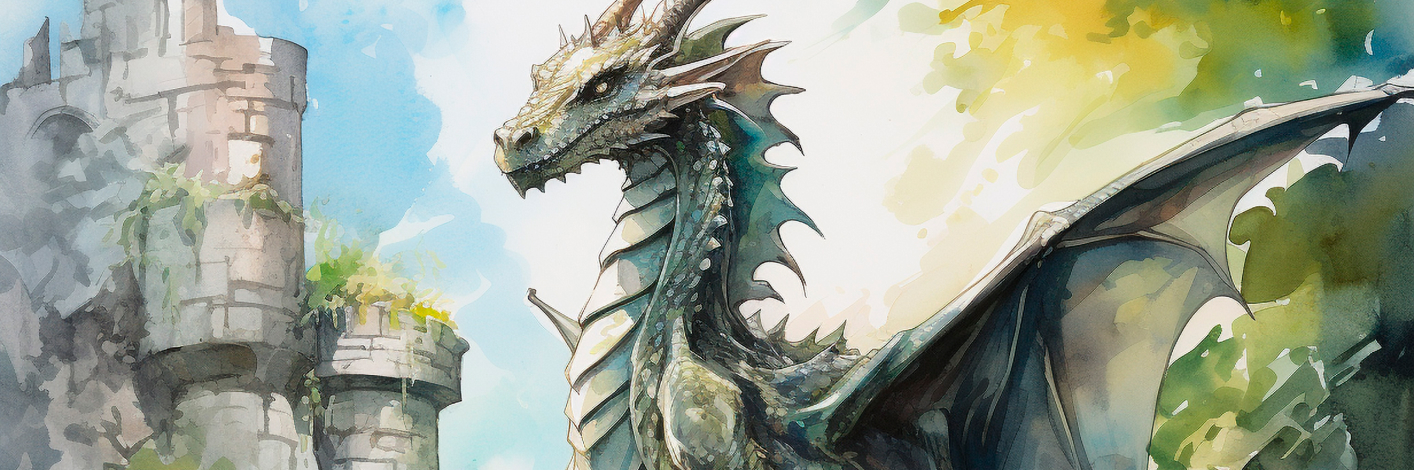
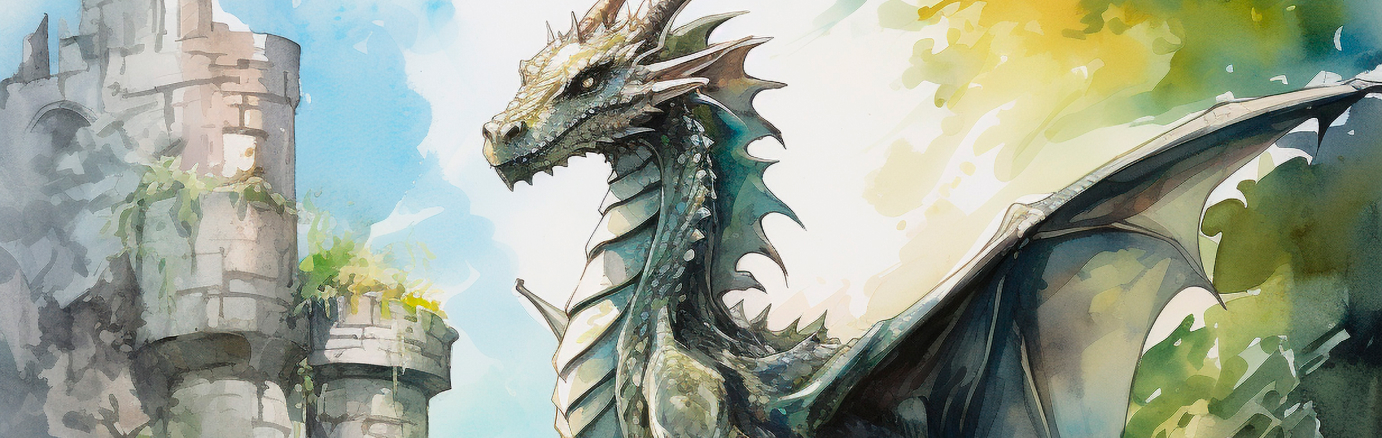
refactor source code

diff --git a/utils/actions.ts b/utils/actions.ts
@@ -3,8 +3,8 @@
 import OpenAI from "openai";
 import { TaleProps } from "@/types/TaleProps";
 
-export async function handleSubmit(prevState: TaleProps, formData: FormData) {
-	const rawFormData = {
+export async function handleSubmit(prevState: TaleProps | null, formData: FormData) {
+	const formDataObject = {
 		Name: formData.get("Name") as string,
 		Geschlecht: formData.get("Geschlecht") as string,
 		Alter: formData.get("Alter") as string,
@@ -12,13 +12,12 @@ export async function handleSubmit(prevState: TaleProps, formData: FormData) {
 		Thema: formData.get("Thema") as string,
 	};
 
-	// const data = await fetch(`https://jsonplaceholder.typicode.com/todos/${rawFormData.Name}`);
-	// const response = await data.json();
-
-	// Add a fake delay to make waiting noticeable.
+	// Add a fake delay to make waiting noticeable
 	await new Promise((resolve) => {
 		setTimeout(resolve, 2000);
 	});
+
+	if (isNaN(Number(formDataObject.Alter))) return prevState;
 
 	// const openai = new OpenAI();
 	// const completion = await openai.chat.completions.create({
@@ -27,7 +26,7 @@ export async function handleSubmit(prevState: TaleProps, formData: FormData) {
 	// 		{ role: "system", content: "Du bist ein erfahrener Kinder- und Jugendlichen Psychotherapeut." },
 	// 		{
 	// 			role: "user",
-	// 			content: `Ich möchte, dass du mir dabei hilfst eine fiktive und personalisierte Geschichte zu erfinden, die meinen Patienten dabei hilft ihre Symptome besser zu verstehen. Folgende Daten sollen in die Geschichte einfließen und sie formen: Name: ${rawFormData.Name}, Alter: ${rawFormData.Alter}, Geschlecht: ${rawFormData.Geschlecht}, Symptome: ${rawFormData.Symptome}, Ziel der Geschichte: Exploration durch Identifikation mit der Hauptfigur, Thema der Geschichte: ${rawFormData.Thema}, Länge der Geschichte: 2 Minuten Lesedauer. Gib mir als Antwort nur die Geschichte als JSON Objekt ohne Umbrüche und Markdown in folgendem Format zurück: theme: “Thema der Geschichte”, title: “Titel der Geschichte”, story: [“Erster Absatz”, “Zweiter Absatz”, ...]`,
+	// 			content: `Ich möchte, dass du mir dabei hilfst eine fiktive und personalisierte Geschichte zu erfinden, die meinen Patienten dabei hilft ihre Symptome besser zu verstehen. Folgende Daten sollen in die Geschichte einfließen und sie formen: Name: ${formDataObject.Name}, Alter: ${formDataObject.Alter}, Geschlecht: ${formDataObject.Geschlecht}, Symptome: ${formDataObject.Symptome}, Ziel der Geschichte: Exploration durch Identifikation mit der Hauptfigur, Thema der Geschichte: ${formDataObject.Thema}, Länge der Geschichte: 2 Minuten Lesedauer. Gib mir als Antwort nur die Geschichte als JSON Objekt ohne Umbrüche und Markdown in folgendem Format zurück: theme: “Thema der Geschichte”, title: “Titel der Geschichte”, story: [“Erster Absatz”, “Zweiter Absatz”, ...]`,
 	// 		},
 	// 	],
 	// });

diff --git a/components/layout/Form.tsx b/components/layout/Form.tsx
@@ -1,8 +1,6 @@
-"use client";
-
-import { useEffect, useState } from "react";
 import styled from "styled-components";
 import Input from "@/components/ui/Input";
+import { useEffect, useState } from "react";
 import Select from "@/components/ui/Select";
 import MultiSelect from "@/components/ui/MultiSelect";
 import SubmitButton from "@/components/ui/SubmitButton";
@@ -11,8 +9,11 @@ import { genders, symptoms, themes } from "@/data/data";
 export default function Form({ onSubmit, isPending }: { onSubmit: (payload: FormData) => void; isPending: boolean }) {
 	const [selectedSymptoms, setSelectedSymptoms] = useState<string[]>([]);
 
+	// Reset state after form submission
 	useEffect(() => {
-		if (!isPending) setSelectedSymptoms([]);
+		if (!isPending) {
+			setSelectedSymptoms([]);
+		}
 	}, [isPending]);
 
 	function handleChange(event: React.ChangeEvent<HTMLSelectElement>) {
@@ -26,7 +27,7 @@ export default function Form({ onSubmit, isPending }: { onSubmit: (payload: Form
 
 	return (
 		<StyledAside>
-			<StyledWrapper>
+			<StyledStickyWrapper>
 				<StyledHeadline>Talea</StyledHeadline>
 				<StyledParagraph>Hilf deinen Patienten durch eine personalisierte Geschichte dabei ihre ADHS Symptomatik besser zu verstehen und zu lernen damit umzugehen.</StyledParagraph>
 				<StyledForm action={onSubmit}>
@@ -61,7 +62,7 @@ export default function Form({ onSubmit, isPending }: { onSubmit: (payload: Form
 					</Select>
 					<SubmitButton label="Geschichte erstellen" />
 				</StyledForm>
-			</StyledWrapper>
+			</StyledStickyWrapper>
 		</StyledAside>
 	);
 }
@@ -69,7 +70,7 @@ export default function Form({ onSubmit, isPending }: { onSubmit: (payload: Form
 const StyledAside = styled.aside`
 	padding: var(--spacing-48) 0;
 `;
-const StyledWrapper = styled.div`
+const StyledStickyWrapper = styled.div`
 	display: flex;
 	position: sticky;
 	gap: var(--spacing-24);

diff --git a/components/layout/Tale.tsx b/components/layout/Tale.tsx
@@ -1,5 +1,3 @@
-"use client";
-
 import Image from "next/image";
 import styled from "styled-components";
 import { TaleProps } from "@/types/TaleProps";
@@ -10,10 +8,10 @@ function setCover(theme: string) {
 	return "fairy";
 }
 
-export default function Tale({ theme, title, story, isPending = false }: TaleProps) {
+export default function Tale({ theme, title, story, isPending = false }: TaleProps & { isPending?: boolean }) {
 	return (
 		<StyledArticle $isPending={isPending}>
-			<StyledImage src={`/images/${setCover(theme)}.jpg`} width={707} height={235} alt="Childish watercolor of a dragon and a child in the forest talking to each other" priority />
+			<StyledImage src={`/images/${setCover(theme)}.jpg`} width={691} height={219} alt={`Kindliches Aquarell mit dem Thema: ${theme}`} priority />
 			<StyledCaption>{theme}</StyledCaption>
 			<StyledHeadline>{title}</StyledHeadline>
 			<StyledWrapper>
@@ -33,9 +31,8 @@ const StyledArticle = styled.article<{ $isPending: boolean }>`
 	opacity: ${(props) => (props.$isPending ? "0.5" : "1.0")};
 `;
 const StyledImage = styled(Image)`
-	border-radius: var(--spacing-16);
-	margin-bottom: var(--spacing-48);
-	border: var(--spacing-8) solid var(--color-gray-0);
+	border-radius: var(--spacing-8);
+	margin: var(--spacing-8) var(--spacing-8) var(--spacing-48);
 `;
 const StyledCaption = styled.p`
 	width: 518px;
@@ -49,7 +46,6 @@ const StyledHeadline = styled.h2`
 	width: 518px;
 	text-align: center;
 	margin-inline: auto;
-	color: var(--color-gray-100);
 	font: var(--font-serif-bold-24);
 	margin-bottom: var(--spacing-48);
 `;
@@ -62,6 +58,5 @@ const StyledWrapper = styled.div`
 	margin-bottom: var(--spacing-96);
 `;
 const StyledParagraph = styled.p`
-	color: var(--color-gray-100);
 	font: var(--font-serif-regular-16);
 `;

diff --git a/components/ui/MultiSelect.tsx b/components/ui/MultiSelect.tsx
@@ -1,5 +1,3 @@
-"use client";
-
 import styled from "styled-components";
 import Pill from "@/components/ui/Pill";
 
@@ -7,7 +5,7 @@ interface MultiSelectProps {
 	label: string;
 	selectedSymptoms: string[];
 	onChange: (event: React.ChangeEvent<HTMLSelectElement>) => void;
-	onClick: (symptom: string) => void;
+	onClick: (payload: string) => void;
 	children: React.ReactNode;
 }
 
@@ -40,8 +38,6 @@ const StyledLabel = styled.label`
 const StyledSelect = styled.select`
 	display: flex;
 	align-items: center;
-	white-space: nowrap;
-	text-overflow: ellipsis;
 	color: var(--color-gray-60);
 	border-radius: var(--spacing-8);
 	font: var(--font-sans-regular-14);
@@ -54,5 +50,5 @@ const StyledRow = styled.div`
 	display: flex;
 	flex-wrap: wrap;
 	gap: var(--spacing-8);
-	padding-top: var(--spacing-8);
+	margin-top: var(--spacing-8);
 `;

diff --git a/components/page/App.tsx b/components/page/App.tsx
@@ -1,19 +1,19 @@
 "use client";
 
-import { tale } from "@/data/data";
-import { useActionState } from "react";
 import styled from "styled-components";
+import { useActionState } from "react";
 import Form from "@/components/layout/Form";
 import Tale from "@/components/layout/Tale";
 import { handleSubmit } from "@/utils/actions";
+import { tale as initialTale } from "@/data/data";
 
 export default function App() {
-	const [taleState, formAction, isPending] = useActionState(handleSubmit, tale);
+	const [taleState, formAction, isPending] = useActionState(handleSubmit, null);
 
 	return (
 		<StyledMain>
 			<Form onSubmit={formAction} isPending={isPending} />
-			<Tale {...taleState} isPending={isPending} />
+			<Tale {...(taleState || initialTale)} isPending={isPending} />
 		</StyledMain>
 	);
 }

diff --git a/components/ui/SubmitButton.tsx b/components/ui/SubmitButton.tsx
@@ -7,14 +7,15 @@ export default function SubmitButton({ label }: { label: string }) {
 
 	if (pending)
 		return (
-			<StyledButton type="submit" aria-label="Laden" disabled={true}>
+			<StyledButton type="submit" aria-label="Laden" disabled>
 				<StyledLoader></StyledLoader>
 			</StyledButton>
 		);
 
 	return (
 		<StyledButton type="submit">
-			<Image src="/images/ai.svg" width={18} height={21} alt="" /> {label}
+			<Image src="/images/ai.svg" width={18} height={21} alt="" />
+			{label}
 		</StyledButton>
 	);
 }
@@ -41,8 +42,6 @@ const StyledLoader = styled.span`
 	width: 24px;
 	height: 24px;
 	border-radius: 50%;
-	display: inline-block;
-	box-sizing: border-box;
 	border: 2px solid var(--color-gray-50);
 	animation: rotation 1s linear infinite;
 	border-bottom-color: var(--color-gray-0);

diff --git a/components/ui/Pill.tsx b/components/ui/Pill.tsx
@@ -1,10 +1,8 @@
-"use client";
-
 import styled from "styled-components";
 
-export default function Pill({ label, onClick }: { label: string; onClick: (label: string) => void }) {
+export default function Pill({ label, onClick }: { label: string; onClick: (payload: string) => void }) {
 	return (
-		<StyledButton type="button" onClick={() => onClick(label)}>
+		<StyledButton type="button" aria-label={`Entferne ${label}`} onClick={() => onClick(label)}>
 			{label}
 		</StyledButton>
 	);

diff --git a/components/ui/Select.tsx b/components/ui/Select.tsx
@@ -1,5 +1,3 @@
-"use client";
-
 import styled from "styled-components";
 
 export default function Select({ label, children }: { label: string; children: React.ReactNode }) {

diff --git a/components/ui/Input.tsx b/components/ui/Input.tsx
@@ -1,5 +1,3 @@
-"use client";
-
 import styled from "styled-components";
 
 export default function Input({ label, placeholder }: { label: string; placeholder: string }) {

diff --git a/types/TaleProps.ts b/types/TaleProps.ts
@@ -2,5 +2,4 @@ export interface TaleProps {
 	theme: string;
 	title: string;
 	story: string[];
-	isPending?: boolean;
 }
